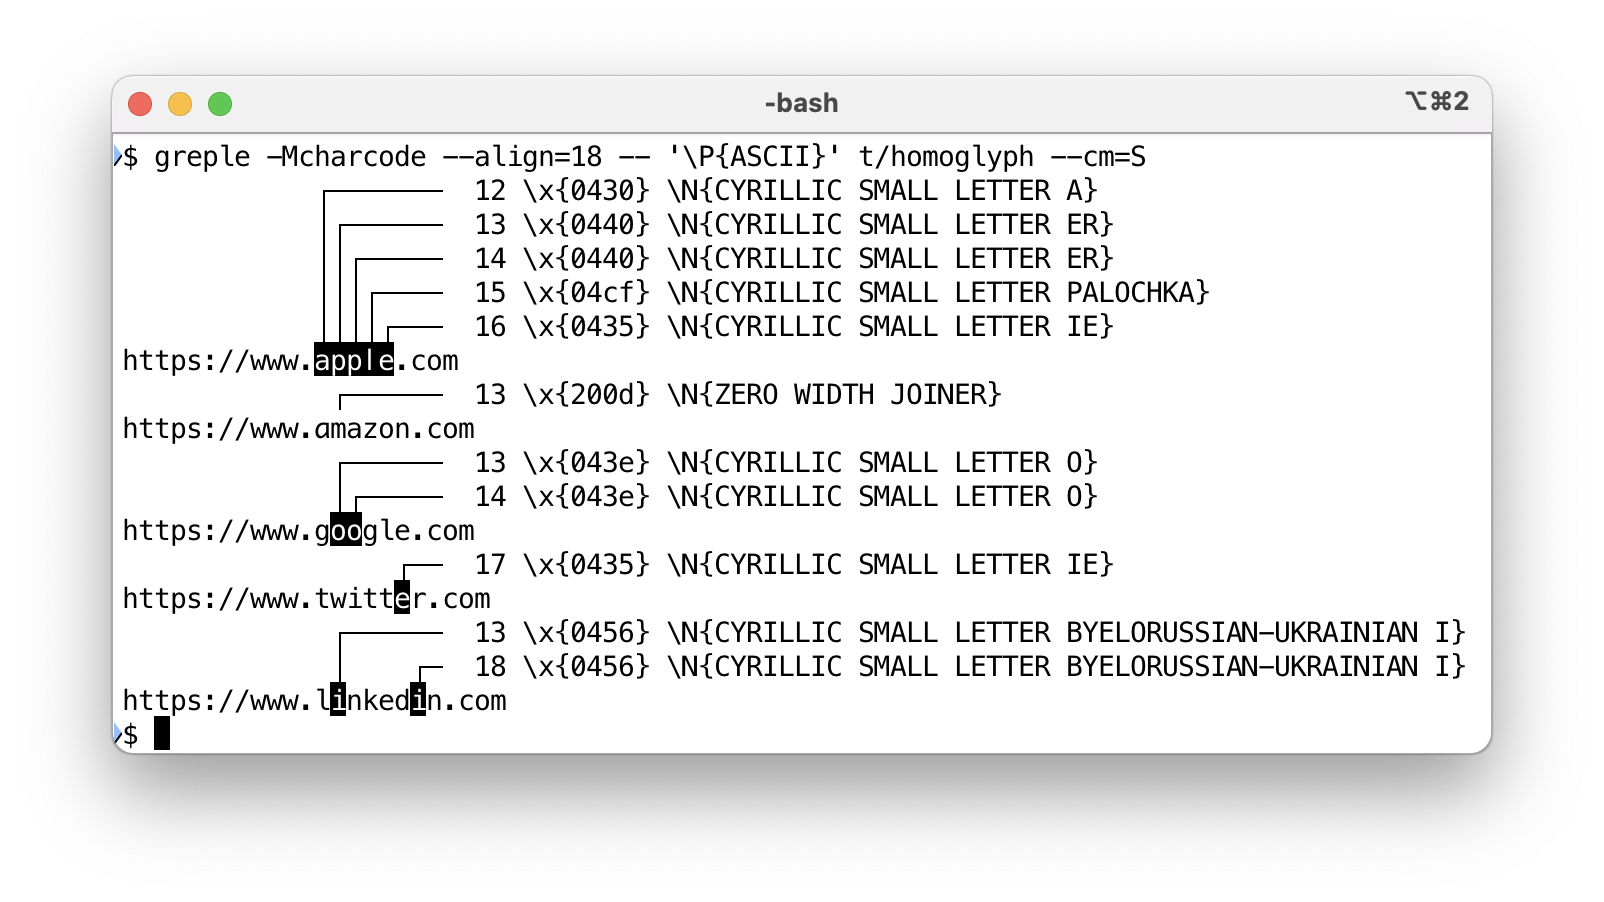
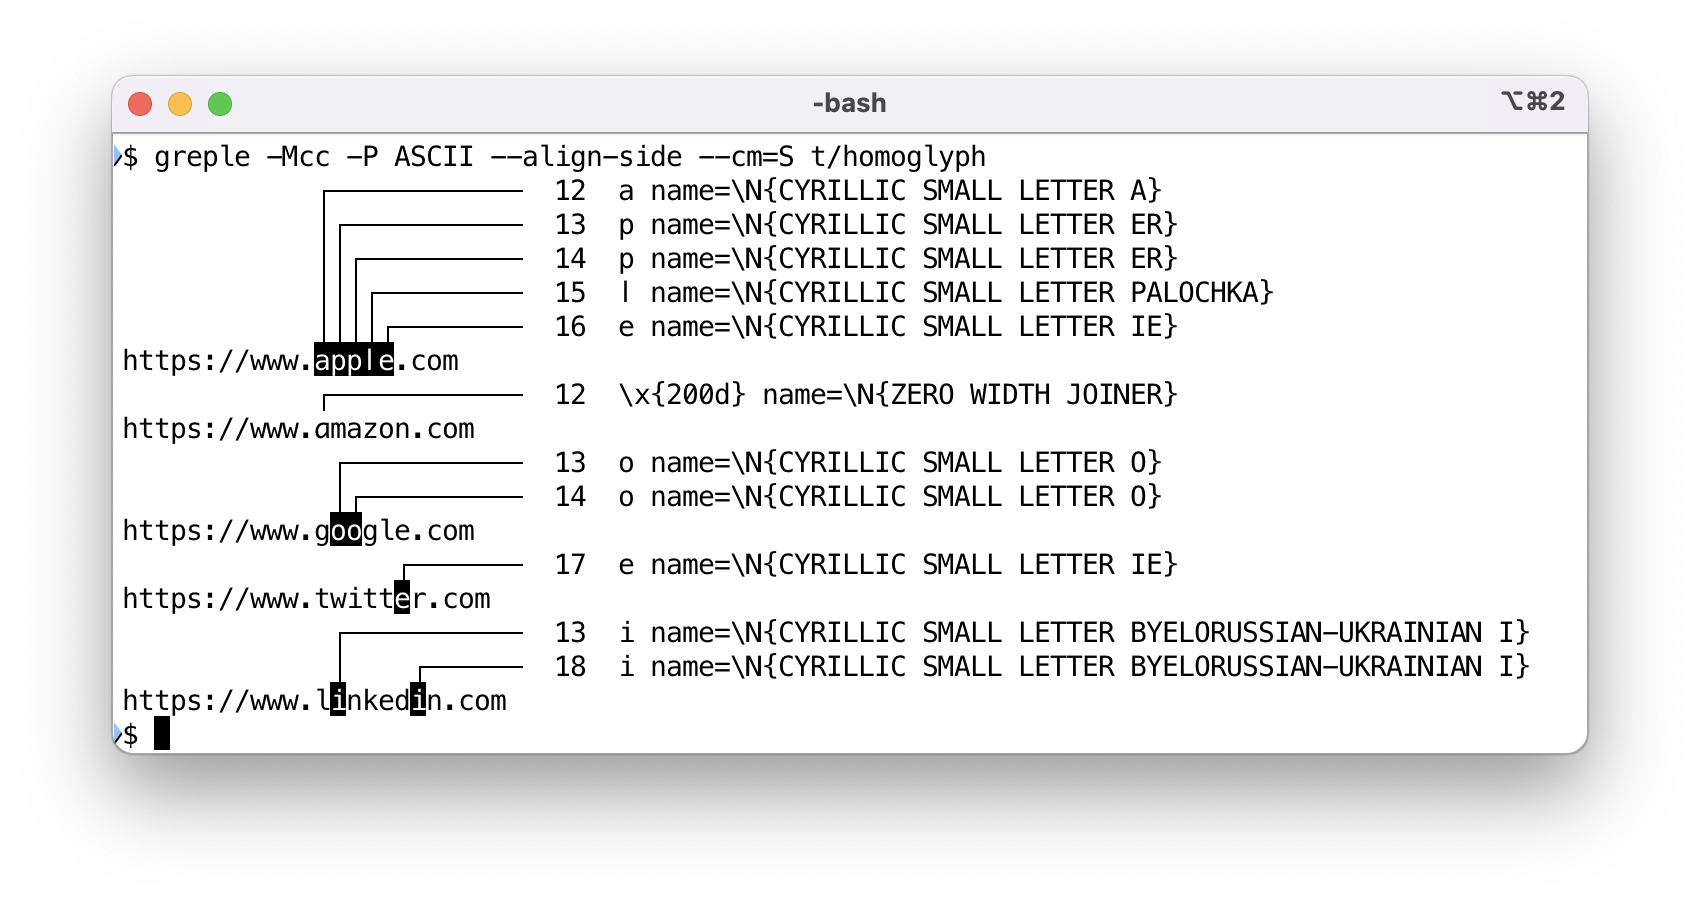
add examples

Changed region(s): [[0.0623, 0.0931, 0.9352, 0.8381], [0.8728, 0.0931, 0.9352, 0.1242], [0.4676, 0.0931, 0.5299, 0.1242]]

diff --git a/README.md b/README.md
@@ -283,6 +283,38 @@ line option `--annotate::config`.
 
     greple -Mannotate --annotate::config alignto=80 ...
 
+# EXAMPLES
+
+## HOMOGLYPH
+
+    greple -Mcc -P ASCII --align-side --cm=S t/homoglyph
+
+<div>
+    <p>
+    <img width="750" src="https://raw.githubusercontent.com/kaz-utashiro/greple-charcode/refs/heads/main/images/homoglyph.png">
+    </p>
+</div>
+
+## BOX DRAWINGS
+
+    perldoc -m App::ansicolumn::Border | greple -Mline -Mcc --code -- --outstand --mc=10,
+
+<div>
+    <p>
+    <img width="750" src="https://raw.githubusercontent.com/kaz-utashiro/greple-charcode/refs/heads/main/images/box-drawing.png">
+    </p>
+</div>
+
+## AYNU ITAK
+
+    greple -Mcc --outstand --split t/ainu.txt
+
+<div>
+    <p>
+    <img width="750" src="https://raw.githubusercontent.com/kaz-utashiro/greple-charcode/refs/heads/main/images/aynu.png">
+    </p>
+</div>
+
 # INSTALL
 
     cpanm -n App::Greple::charcode
